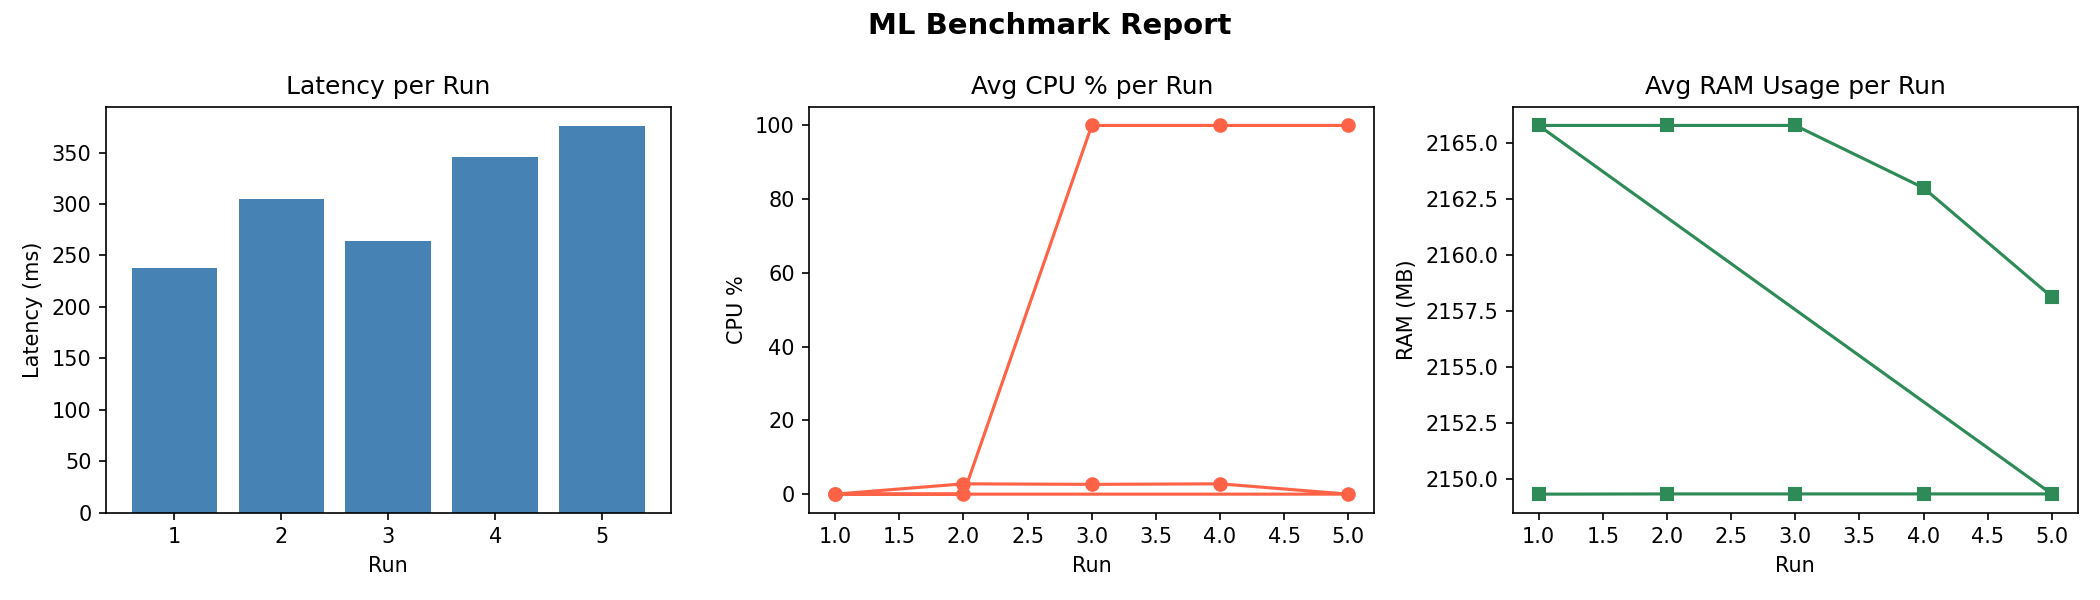
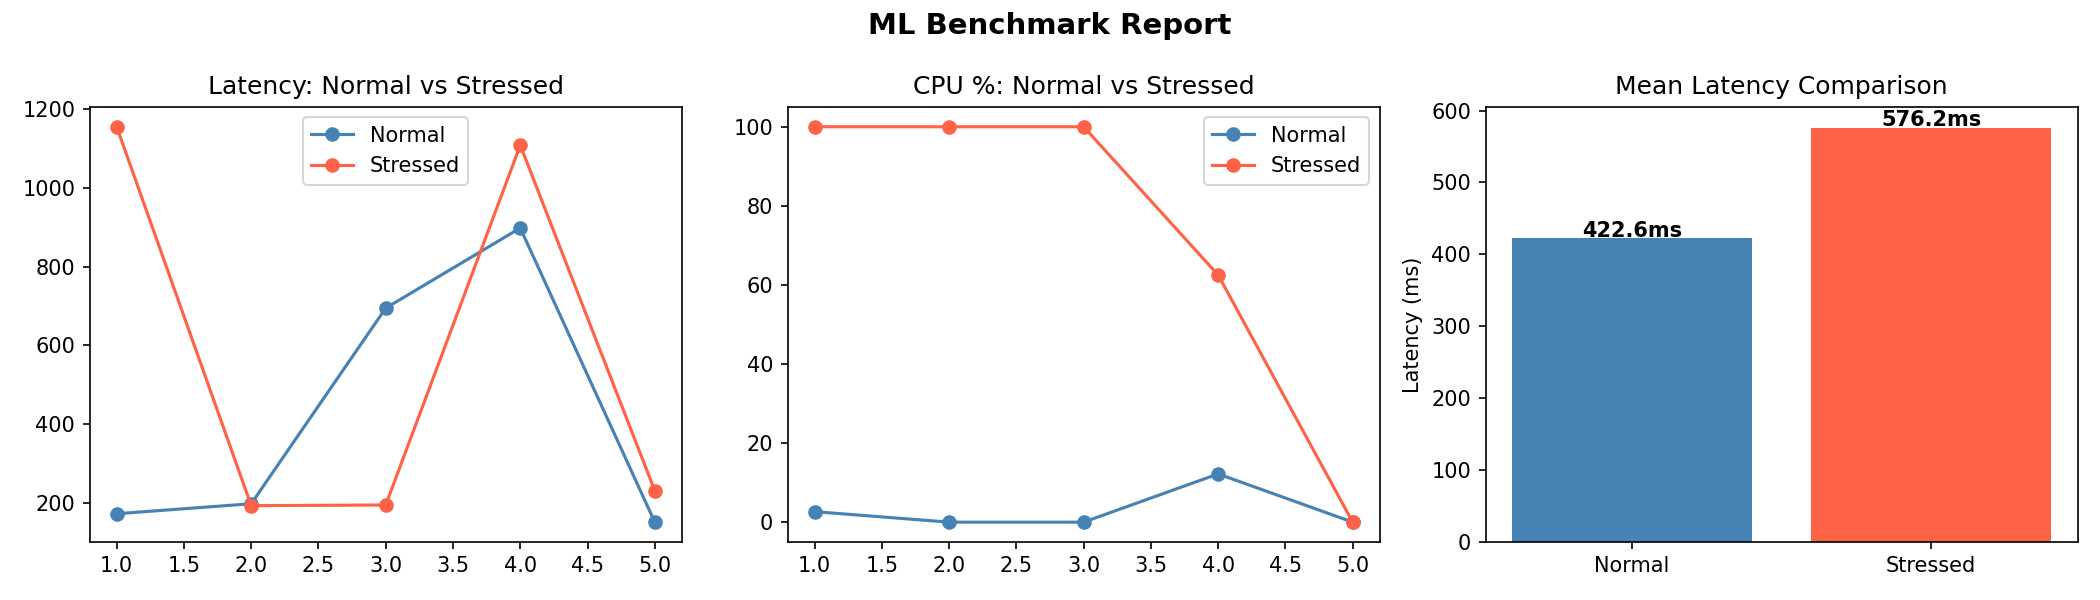
improve comparison chart with side by side normal vs stressed plots

diff --git a/reporter.py b/reporter.py
@@ -21,27 +21,60 @@ def save_csv(results: list[BenchmarkResult], path: str = "results.csv"):
     return df
 
 def plot_results(df: pd.DataFrame, path: str = "report.png"):
+    # detect if we have both normal and stressed runs (more than 5 rows = comparison)
+    is_comparison = len(df) > 5
+
     fig, axes = plt.subplots(1, 3, figsize=(14, 4))
     fig.suptitle("ML Benchmark Report", fontsize=14, fontweight='bold')
 
-    axes[0].bar(df["run_id"], df["latency_ms"], color="steelblue")
-    axes[0].set_title("Latency per Run")
-    axes[0].set_xlabel("Run")
-    axes[0].set_ylabel("Latency (ms)")
+    if is_comparison:
+        mid = len(df) // 2
+        normal_df = df.iloc[:mid]
+        stressed_df = df.iloc[mid:]
 
-    axes[1].plot(df["run_id"], df["avg_cpu_percent"], marker='o', color="tomato")
-    axes[1].set_title("Avg CPU % per Run")
-    axes[1].set_xlabel("Run")
-    axes[1].set_ylabel("CPU %")
+        # Latency comparison
+        axes[0].plot(normal_df["run_id"].values, normal_df["latency_ms"].values,
+                     marker='o', label="Normal", color="steelblue")
+        axes[0].plot(stressed_df["run_id"].values, stressed_df["latency_ms"].values,
+                     marker='o', label="Stressed", color="tomato")
+        axes[0].legend()
+        axes[0].set_title("Latency: Normal vs Stressed")
 
-    axes[2].plot(df["run_id"], df["avg_ram_mb"], marker='s', color="seagreen")
-    axes[2].set_title("Avg RAM Usage per Run")
-    axes[2].set_xlabel("Run")
-    axes[2].set_ylabel("RAM (MB)")
+        # CPU comparison
+        axes[1].plot(normal_df["run_id"].values, normal_df["avg_cpu_percent"].values,
+                     marker='o', label="Normal", color="steelblue")
+        axes[1].plot(stressed_df["run_id"].values, stressed_df["avg_cpu_percent"].values,
+                     marker='o', label="Stressed", color="tomato")
+        axes[1].legend()
+        axes[1].set_title("CPU %: Normal vs Stressed")
+
+        # Bar chart summary
+        means = [normal_df["latency_ms"].mean(), stressed_df["latency_ms"].mean()]
+        bars = axes[2].bar(["Normal", "Stressed"], means, color=["steelblue", "tomato"])
+        axes[2].set_title("Mean Latency Comparison")
+        axes[2].set_ylabel("Latency (ms)")
+        for bar, val in zip(bars, means):
+            axes[2].text(bar.get_x() + bar.get_width()/2, bar.get_height() + 2,
+                        f"{val:.1f}ms", ha='center', fontweight='bold')
+    else:
+        axes[0].bar(df["run_id"], df["latency_ms"], color="steelblue")
+        axes[0].set_title("Latency per Run")
+        axes[0].set_xlabel("Run")
+        axes[0].set_ylabel("Latency (ms)")
+
+        axes[1].plot(df["run_id"], df["avg_cpu_percent"], marker='o', color="tomato")
+        axes[1].set_title("Avg CPU % per Run")
+        axes[1].set_xlabel("Run")
+        axes[1].set_ylabel("CPU %")
+
+        axes[2].plot(df["run_id"], df["avg_ram_mb"], marker='s', color="seagreen")
+        axes[2].set_title("Avg RAM Usage per Run")
+        axes[2].set_xlabel("Run")
+        axes[2].set_ylabel("RAM (MB)")
 
     plt.tight_layout()
     plt.savefig(path, dpi=150)
-    print(f"Chart saved to {path}")
+    print(f"Chart saved to {path}") 
 
 if __name__ == "__main__":
     from benchmark import run_benchmark_suite
